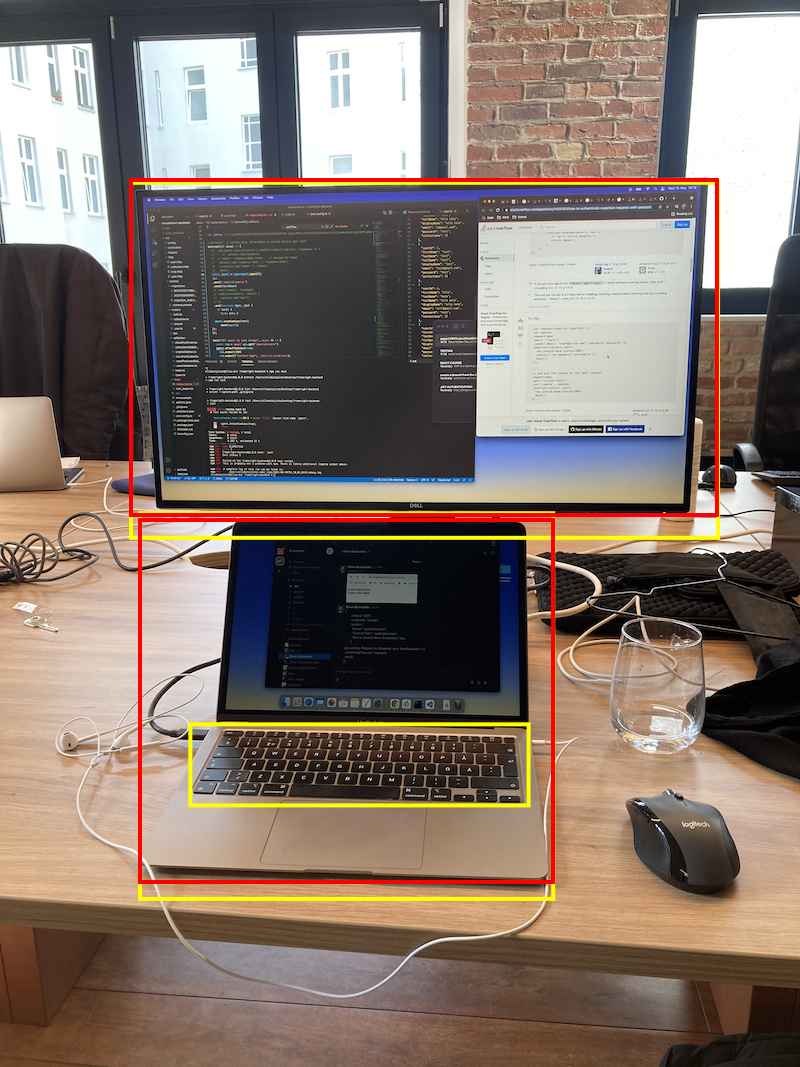
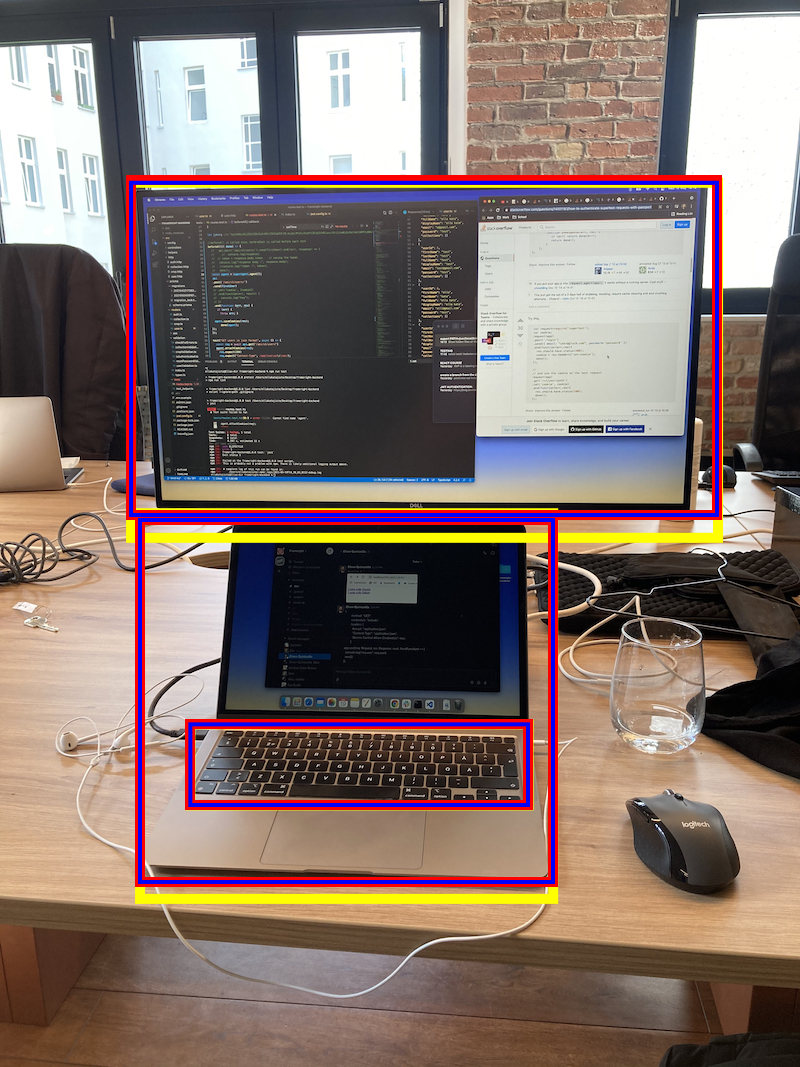
comparing multiple bounding boxes with multiple ground truths work

Changed region(s): [[0.1562, 0.1546, 0.9062, 0.866]]

diff --git a/controllers/boundingBoxes.js b/controllers/boundingBoxes.js
@@ -5,16 +5,9 @@ import {
   imageHeight,
   AWS_height,
   AWS_width,
-  AWS_yStart,
-  AWS_xStart,
   BoundingBoxes,
 } from "./functionality.js";
-
-// ground truth coordinates for testImage.jpeg
-let ground_xStart;
-let ground_yStart;
-let ground_width;
-let ground_height;
+import { groundTruth_IMG_2150 } from "../helper/groundTruths.js";
 
 export function drawBoundingBoxes() {
   const canvas = createCanvas(imageWidth, imageHeight);
@@ -24,10 +17,9 @@ export function drawBoundingBoxes() {
     context.drawImage(image, 0, 0);
     console.log("IMAGE WIDTH FROM DRAWIMAGE: ", image.width);
 
+    // draw AWS bounding boxes
     BoundingBoxes.forEach((box) => {
-      console.log("box from drawImage:", box);
-      console.log("leftcoordinate from drawImage:", box.leftCoordinate);
-      // the bounding box from AWS -> implement
+      // console.log("box from drawImage:", box);
       context.beginPath();
       // parameters: x and y start, width of box, height of box
       context.rect(
@@ -36,64 +28,42 @@ export function drawBoundingBoxes() {
         box.AWS_width,
         box.AWS_height
       );
-      context.lineWidth = 4;
+      context.lineWidth = 10;
       context.strokeStyle = "yellow";
       context.stroke();
     });
 
-    // // image is testImage.jpeg
-    // if (image.width == 600) {
-    //   ground_xStart = 50;
-    //   ground_yStart = 120;
-    //   ground_width = 357;
-    //   ground_height = 445;
-    // }
-
-    // if image is IMG_2510
-    // draw ground truth
+    // if image is IMG_2510 (come up with a better criteria)
+    // Draw the ground truth bounding boxes
     if (image.width == 800) {
-      // ground truth for label "Monitor"
-      ground_xStart = 131;
-      ground_yStart = 180;
-      ground_width = 586;
-      ground_height = 335;
-
-      context.beginPath();
-      context.rect(ground_xStart, ground_yStart, ground_width, ground_height);
-      context.lineWidth = 4;
-      context.strokeStyle = "red";
-      context.stroke();
-
-      // ground truth for label "Laptop"
-      ground_xStart = 140;
-      ground_yStart = 520;
-      ground_height = 362;
-      ground_width = 413;
-
-      context.beginPath();
-      context.rect(ground_xStart, ground_yStart, ground_width, ground_height);
-      context.lineWidth = 4;
-      context.strokeStyle = "red";
-      context.stroke();
+      groundTruth_IMG_2150.forEach((i) => {
+        context.beginPath();
+        context.rect(i.xStart, i.yStart, i.width, i.height);
+        context.lineWidth = 10;
+        context.strokeStyle = "red";
+        context.stroke();
+      });
     }
 
-    // // the bounding box from AWS -> implement
-    // context.beginPath();
-    // // parameters: x and y start, width of box, height of box
-    // context.rect(AWS_xStart, AWS_yStart, AWS_width, AWS_height);
-    // context.lineWidth = 7;
-    // context.strokeStyle = "yellow";
-    // context.stroke();
-
-    // get the intersection area
-    // let findInter = findIntersection();
-    // let i = findInter.interSection;
-    // // draw the intersection rectangle
-    // context.beginPath();
-    // context.rect(i[0], i[1], i[2], i[3]);
-    // context.lineWidth = 7;
-    // context.strokeStyle = "blue";
-    // context.stroke();
+    // get array with intersection rectangles
+    let findInter = findIntersection();
+    let rectangles = findInter.interSectionCoordinates;
+    // draw the intersection rectangles
+    rectangles.forEach((r) => {
+      // console.log("intersection rectangle:", r);
+      context.beginPath();
+      context.rect(
+        r.intersection_xStart,
+        r.intersection_yStart,
+        r.interSectionWidth,
+        r.interSectionHeight
+      );
+      context.lineWidth = 4;
+      context.strokeStyle = "blue";
+      // context.fillStyle = "blue";
+      // context.fill();
+      context.stroke();
+    });
 
     const buffer = canvas.toBuffer("image/png");
     fs.writeFileSync("./boundingBoxImage.png", buffer);
@@ -102,79 +72,122 @@ export function drawBoundingBoxes() {
 
 // https://www.geeksforgeeks.org/intersecting-rectangle-when-bottom-left-and-top-right-corners-of-two-rectangles-are-given/
 export function findIntersection() {
-  let interSection = [];
+  let interSectionCoordinates = [];
 
-  // AWS bounding box
-  const x1 = AWS_xStart;
-  const y1 = AWS_yStart + AWS_height;
-  const x2 = AWS_xStart + AWS_width;
-  const y2 = AWS_yStart;
+  // coordinates for the intersection rectangle
+  let intersection_xStart;
+  let intersection_yStart;
+  let interSectionWidth;
+  let interSectionHeight;
 
-  // "ground truth"
-  const x3 = ground_xStart;
-  const y3 = ground_yStart + ground_height;
-  const x4 = ground_xStart + ground_width;
-  const y4 = ground_yStart;
+  // combine two arrays of objects into one array of arrays
+  const zip = (a1, a2) => a1.map((x, i) => [x, a2[i]]);
 
-  // get bottom-left point of intersection rectangle
-  var x5 = Math.max(x1, x3);
-  var y5 = Math.min(y1, y3); // this was changed from the original to min
+  // combine AWS bounding boxes and their respective ground truths into one array
+  const bb_groundTruth_combined = zip(groundTruth_IMG_2150, BoundingBoxes);
+  console.log("COMBINED ARRAY: ", bb_groundTruth_combined);
 
-  // gives top-right point of intersection rectangle
-  var x6 = Math.min(x2, x4);
-  var y6 = Math.max(y2, y4); // this was changed from the original to max
+  // area of the intersection rectangle
+  let interSectionArea;
 
-  // gives top left point of intersection rectangle
-  var x7 = x5;
-  var y7 = y6;
+  // array for the intersection area values for all bounding boxes
+  let interSectionArray = [];
 
-  // gives bottom right point of intersection rectangle
-  var x8 = x6;
-  var y8 = y5;
+  // for each object in the bounding box & ground truth array
+  bb_groundTruth_combined.forEach((i) => {
+    // console.log("bb_groundTruth_combined: ", i);
 
-  // data needed for drawing the rectangle
-  // x7 is the x starting point, y7 the y starting point
-  let intersection_xStart = x7;
-  let intersection_yStart = y7;
-  let interSectionWidth = x8 - x7;
-  let interSectionHeight = y8 - y7;
+    // ground truth coordinates
+    let x1 = i[0].xStart;
+    let y1 = i[0].yStart + i[0].height;
+    let x2 = i[0].xStart + i[0].width;
+    let y2 = i[0].yStart;
 
-  interSection = [
-    intersection_xStart,
-    intersection_yStart,
-    interSectionWidth,
-    interSectionHeight,
-  ];
+    // AWS coordinates
+    let x3 = i[1].AWS_xStart;
+    let y3 = i[1].AWS_yStart + i[1].AWS_height;
+    let x4 = i[1].AWS_xStart + i[1].AWS_width;
+    let y4 = i[1].AWS_yStart;
 
-  let interSectionArea = interSectionWidth * interSectionHeight;
-  // console.log("interSectionArea: ", interSectionArea);
-  // console.log("interSection Array: ", interSection);
+    // get bottom-left point of intersection rectangle
+    let x5 = Math.max(x1, x3);
+    let y5 = Math.min(y1, y3); // this was changed from the original to min
+
+    // gives top-right point of intersection rectangle
+    let x6 = Math.min(x2, x4);
+    let y6 = Math.max(y2, y4); // this was changed from the original to max
+
+    // gives top left point of intersection rectangle
+    let x7 = x5;
+    let y7 = y6;
+
+    // gives bottom right point of intersection rectangle
+    let x8 = x6;
+    let y8 = y5;
+
+    // data needed for drawing the rectangle
+    // x7 is the x starting point, y7 the y starting point
+    intersection_xStart = x7;
+    intersection_yStart = y7;
+    interSectionWidth = x8 - x7;
+    interSectionHeight = y8 - y7;
+
+    interSectionCoordinates.push({
+      intersection_xStart,
+      intersection_yStart,
+      interSectionWidth,
+      interSectionHeight,
+    });
+
+    console.log("interSectionCoordinates array: ", interSectionCoordinates);
+
+    interSectionArea = interSectionWidth * interSectionHeight;
+
+    interSectionArray.push({ interSectionArea });
+  });
 
   // if (x5 > x6 || y5 > y6) {
   //   console.log("NO INTERSECTION FOUND!!!");
   // }
 
-  return { interSection, interSectionArea };
+  return { interSectionCoordinates, interSectionArray };
 }
 
 // https://medium.com/analytics-vidhya/iou-intersection-over-union-705a39e7acef
 export function calculateIOU() {
   // get the intersection of the two rectangles
   let findInter = findIntersection();
-  let intersectionArea = findInter.interSectionArea;
+  let intersectionArray = findInter.interSectionArray;
   // console.log("interSection area: ", interArea);
+
+  let groundTruthArea;
+  let areaAWS;
+  let bothAreas;
+  let union;
+
+  // for each ground truth
+  groundTruth_IMG_2150.forEach((i) => {
+    areaAWS = AWS_width * AWS_height;
+    groundTruthArea = i.width * i.height;
+    bothAreas = areaAWS + groundTruthArea;
+    union = bothAreas - intersectionArray[i];
+
+    // divide intersection / union
+    let IOU = intersectionArray[i] / union;
+    console.log("IOU: ", IOU);
+  });
 
   // get the union of the two rectangles
   // 1. calculate the area of the individual boxes
-  let areaAWS = AWS_width * AWS_height;
-  let groundTruthArea = ground_width * ground_height;
-  let bothAreas = areaAWS + groundTruthArea;
+  // let areaAWS = AWS_width * AWS_height;
+  //let groundTruthArea = ground_width * ground_height;
+  // let bothAreas = areaAWS + groundTruthArea;
 
   // union is the union minus the part which is included in both rectangles,
   // otherwise we would have the intersection area twice
-  let union = bothAreas - intersectionArea;
+  // let union = bothAreas - intersectionArea;
 
   // divide intersection / union
-  let IOU = intersectionArea / union;
-  console.log("IOU: ", IOU);
+  // let IOU = intersectionArea / union;
+  // console.log("IOU: ", IOU);
 }

diff --git a/controllers/functionality.js b/controllers/functionality.js
@@ -72,7 +72,7 @@ router.post("/", upload.array("files"), async (req, res) => {
     labelArr = [];
     // get the labels detected from the image
     response.Labels.forEach((result) => labelArr.push(result.Name));
-    console.log("labels found: ", labelArr);
+    // console.log("labels found: ", labelArr);
 
     // get dimension of the request image
     var dimensions = sizeOf(buffer);
@@ -118,17 +118,17 @@ router.post("/", upload.array("files"), async (req, res) => {
       }
     });
 
-    console.log(
-      "AWS bounding box: ",
-      "AWS_height: ",
-      AWS_height,
-      "AWS_width: ",
-      AWS_width,
-      "AWS_yStart: ",
-      AWS_yStart,
-      "AWS_xStart: ",
-      AWS_xStart
-    );
+    // console.log(
+    //   "AWS bounding box: ",
+    //   "AWS_height: ",
+    //   AWS_height,
+    //   "AWS_width: ",
+    //   AWS_width,
+    //   "AWS_yStart: ",
+    //   AWS_yStart,
+    //   "AWS_xStart: ",
+    //   AWS_xStart
+    // );
 
     // Draw bounding boxes, calculate IOU
     drawBoundingBoxes();
@@ -142,7 +142,7 @@ router.post("/", upload.array("files"), async (req, res) => {
     // Write labels into the image metadata
     editMetadata(image);
 
-    console.log("BoundingBoxes: ", BoundingBoxes);
+    // console.log("BoundingBoxes: ", BoundingBoxes);
     // console.log("response: ", response);
 
     // call the checkCategories function here

diff --git a/helper/groundTruths.js b/helper/groundTruths.js
@@ -1,0 +1,18 @@
+export const groundTruth_IMG_2150 = [
+  // ground truth for label "Keyboard"
+  { xStart: 190, yStart: 724, width: 338, height: 81 },
+  // Ground truth for label "Monitor"
+  {
+    xStart: 131,
+    yStart: 180,
+    width: 586,
+    height: 335,
+  },
+  // ground truth for label "Laptop"
+  {
+    xStart: 140,
+    yStart: 520,
+    height: 362,
+    width: 413,
+  },
+];
